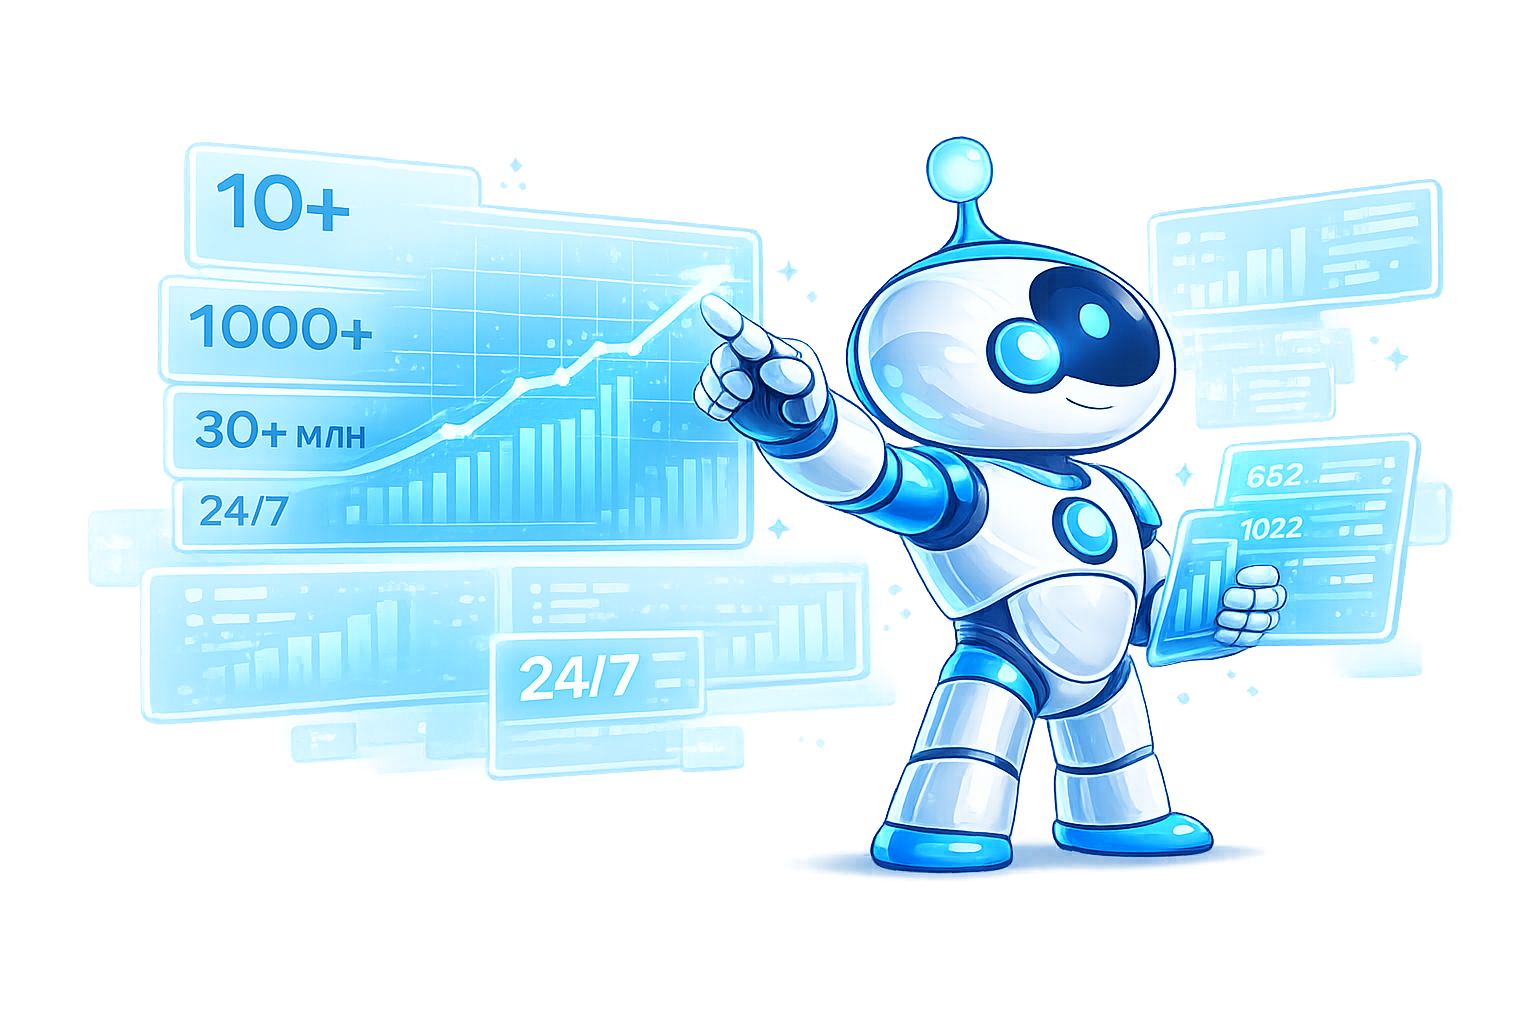
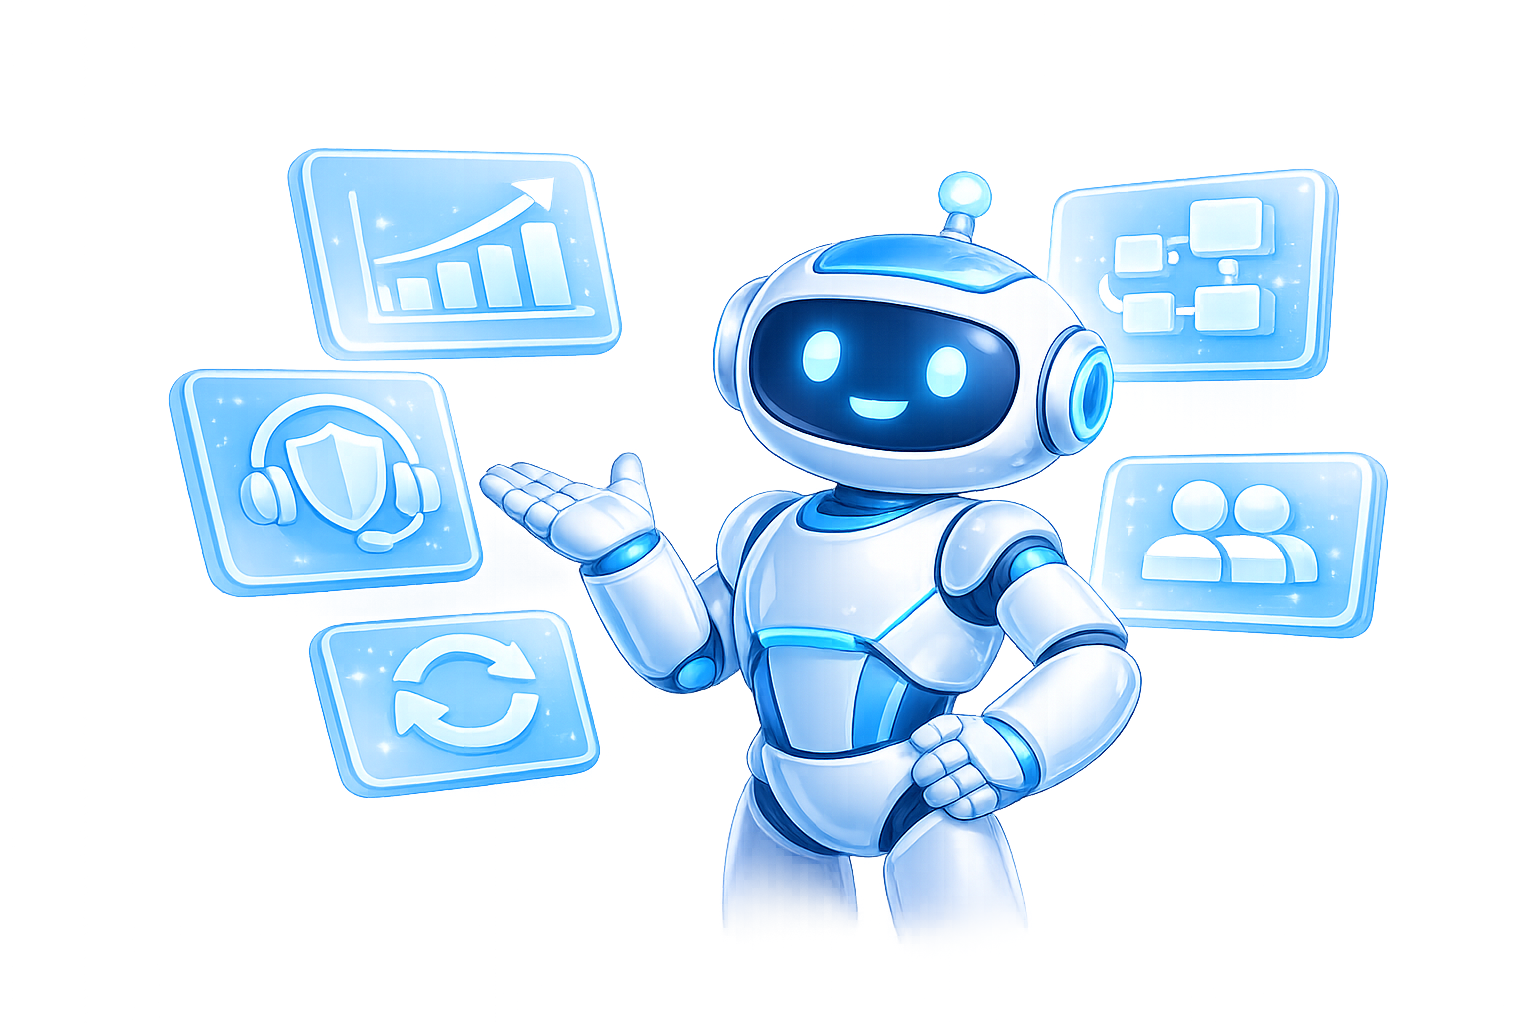
update #90

diff --git a/styles.css b/styles.css
@@ -602,6 +602,27 @@ main img:hover {
   animation: hero-number-shine 1.8s ease-in-out infinite;
 }
 
+/* Блик по цифрам в блоке «Возможности» при наведении на кнопку этой секции */
+.benefits:has(.benefits-cta .btn:hover) .benefit-num,
+.benefits:has(.benefits-cta .btn:hover) .benefit-num-prefix {
+  background: linear-gradient(
+    110deg,
+    var(--cyan) 0%,
+    var(--cyan-light) 35%,
+    var(--accent) 55%,
+    var(--cyan-light) 75%,
+    var(--cyan) 100%
+  );
+  background-size: 220% 100%;
+  background-position: 0% center;
+  -webkit-background-clip: text;
+  -webkit-text-fill-color: transparent;
+  background-clip: text;
+  text-fill-color: transparent;
+  filter: drop-shadow(0 0 12px rgba(56, 189, 248, 0.25));
+  animation: hero-number-shine 1.8s ease-in-out infinite;
+}
+
 /* Тот же блик для \"3 подарка\" в финальном блоке при ховере на кнопке */
 .final-section:has(.final-cta-btn:hover) .final-header .hero-number {
   animation: hero-number-shine 1.8s ease-in-out infinite;
@@ -2181,8 +2202,8 @@ main img:hover {
 
 .why-bg {
   position: absolute;
-  right: 8%;
-  top: calc(-22% + 90px);
+  right: calc(8% - 80px);
+  top: calc(-22% + 60px);
   transform: translateY(0) translateX(0);
   z-index: 0;
   pointer-events: none;
@@ -2219,7 +2240,7 @@ main img:hover {
 
 .why-bg .why-character {
   width: 100%;
-  max-width: 460px;
+  max-width: 500px;
   height: auto;
   object-fit: contain;
   opacity: 0.92;
